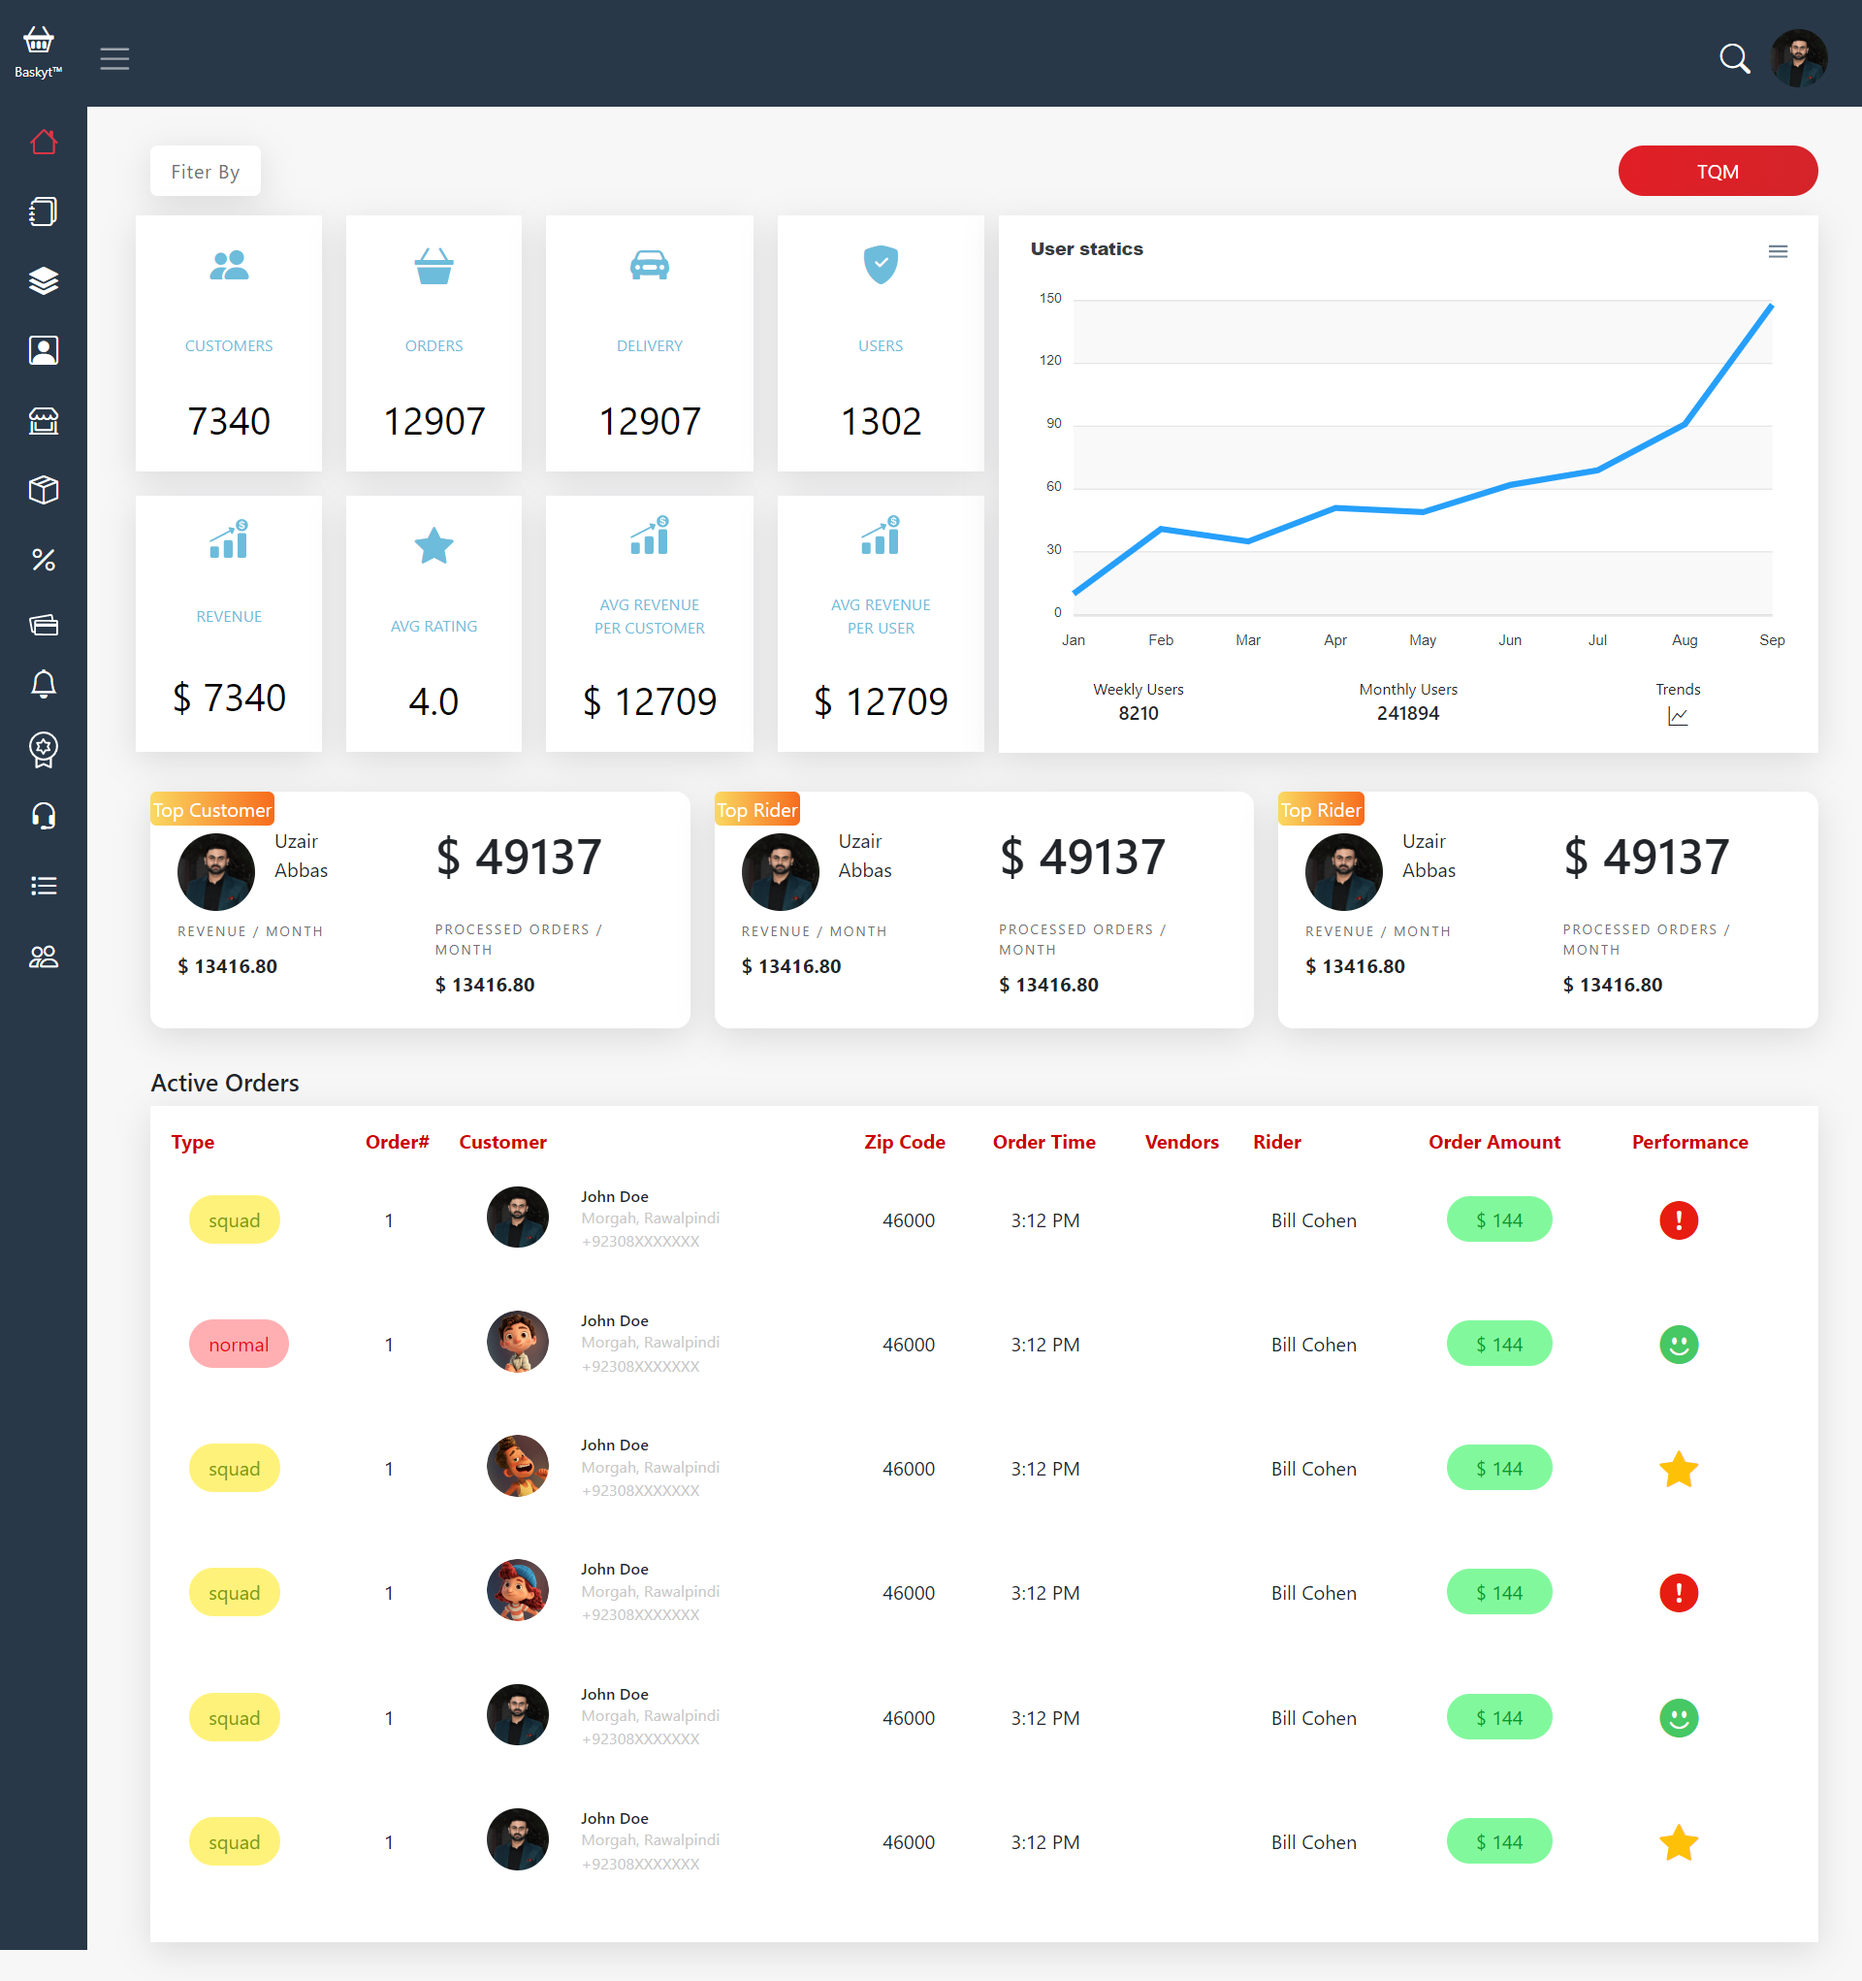
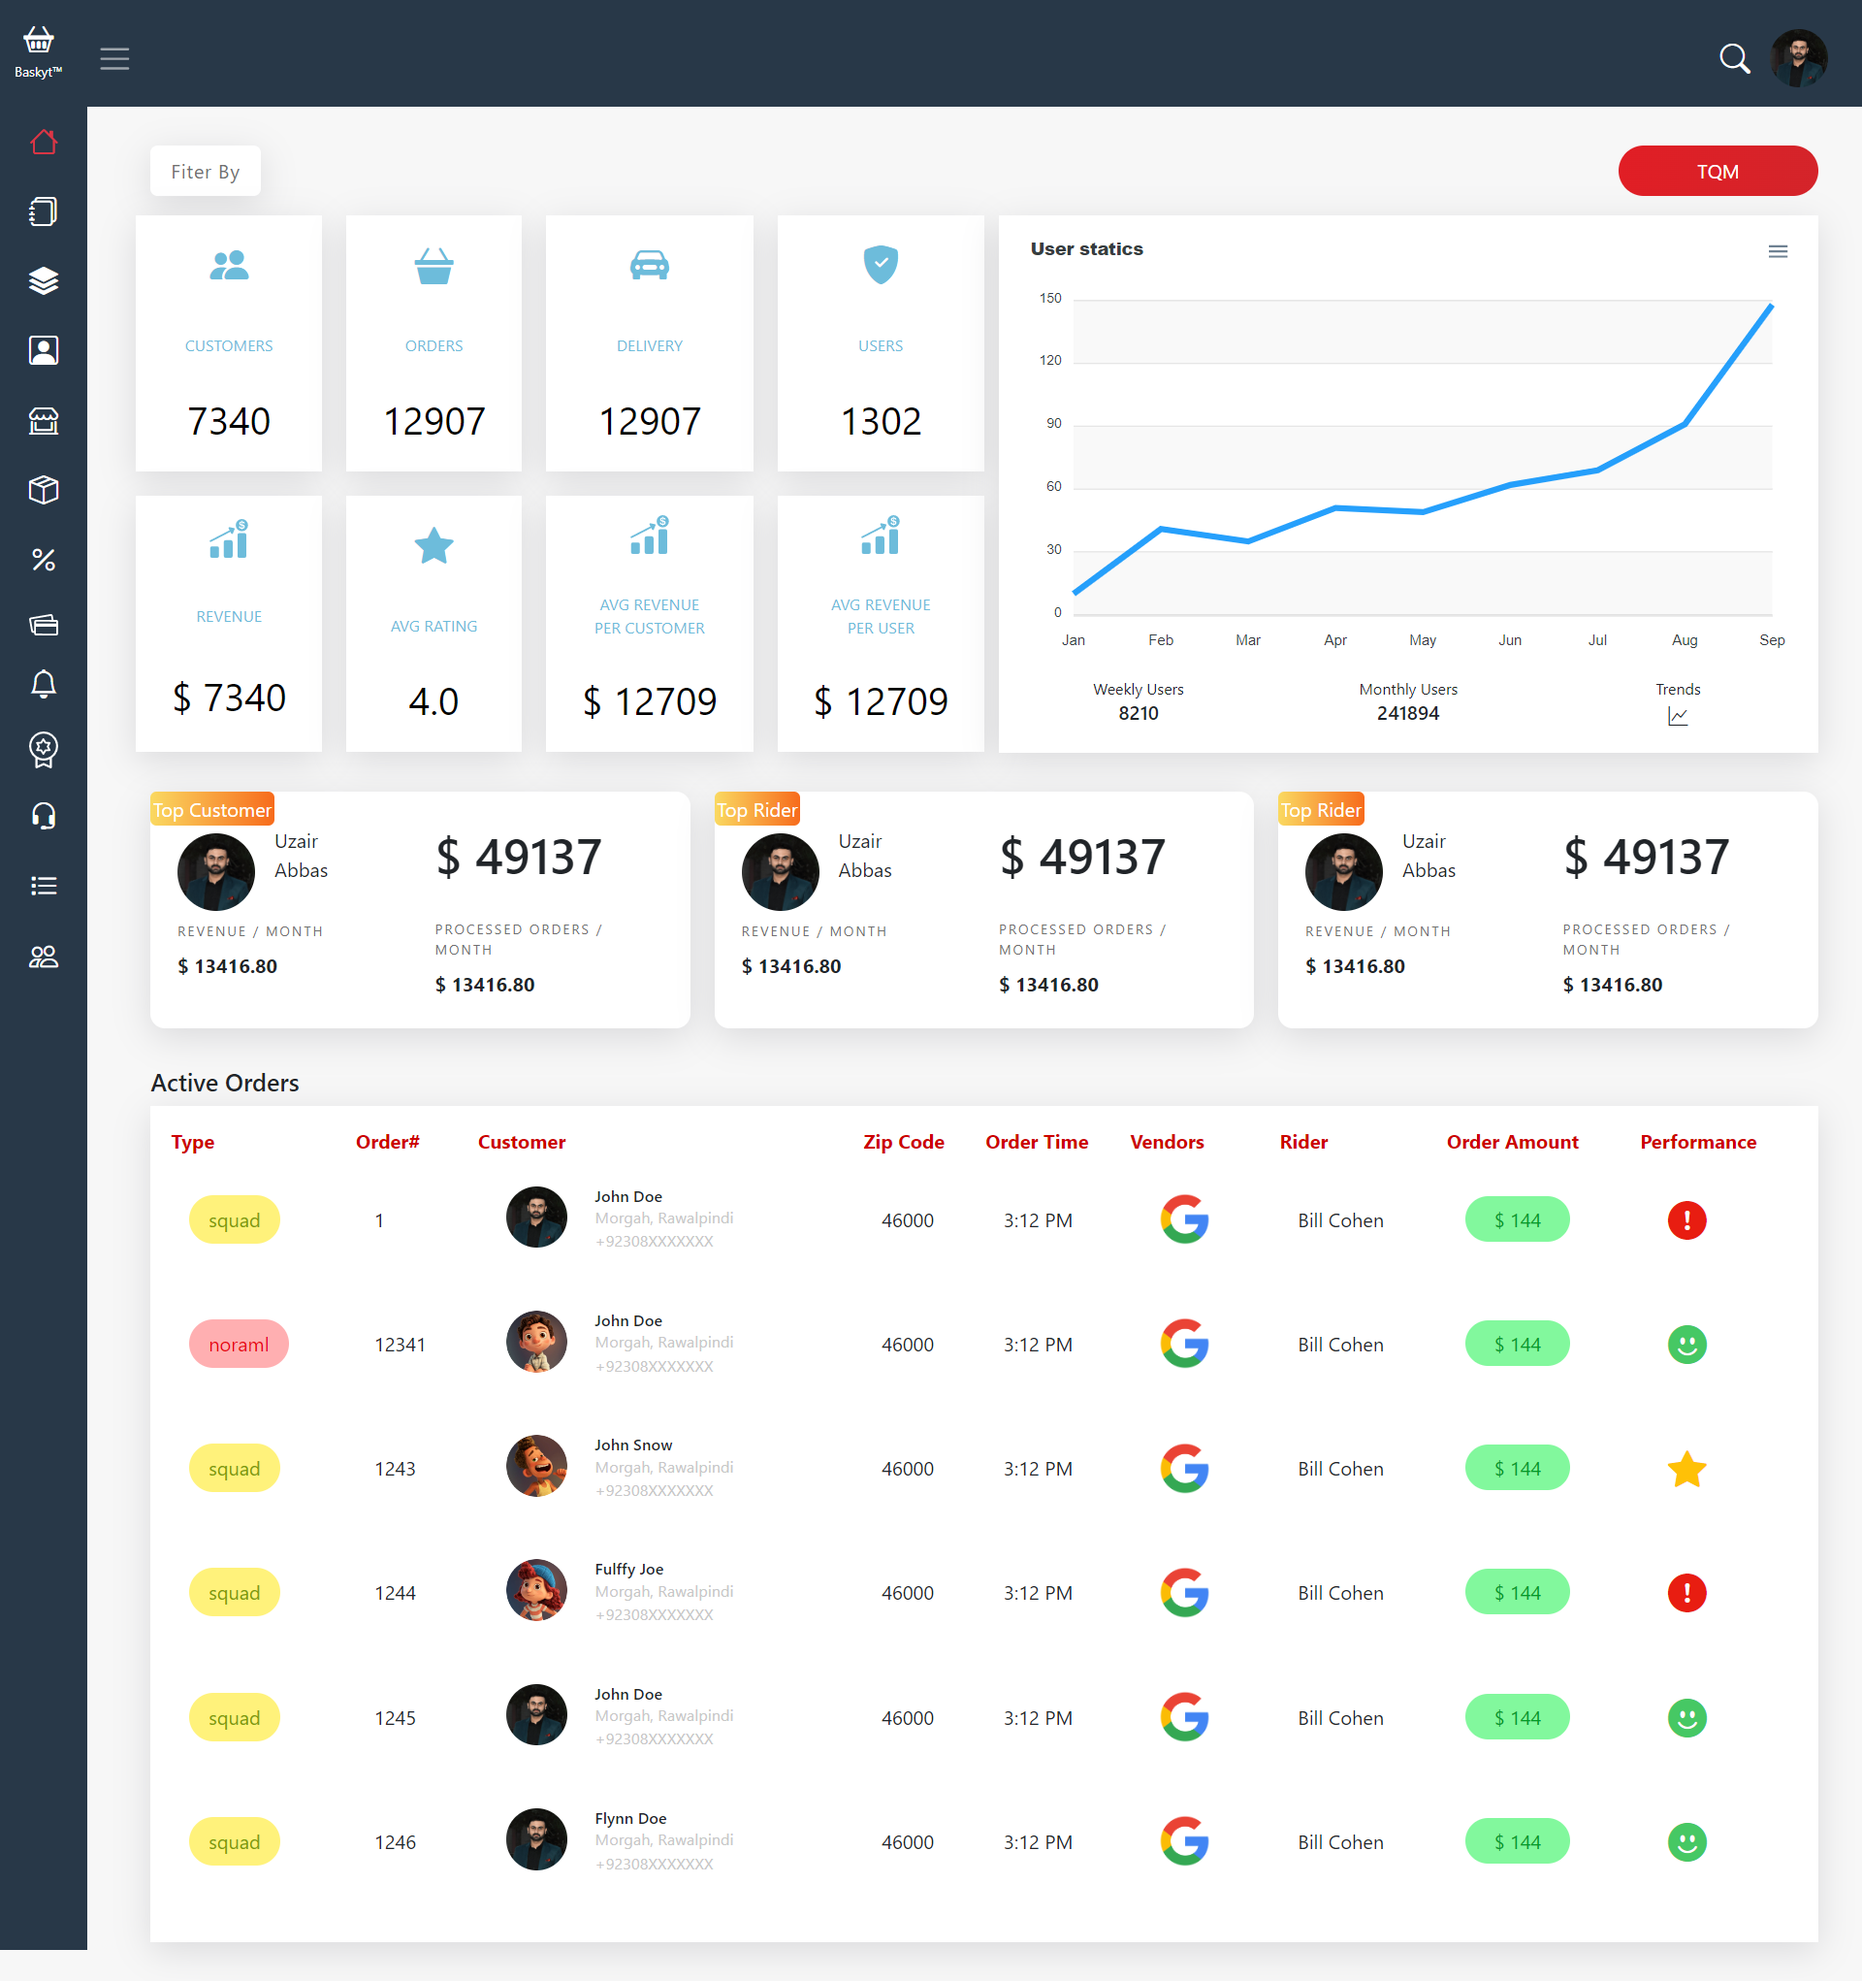
final commit end

diff --git a/src/components/Dashboard.jsx b/src/components/Dashboard.jsx
@@ -1,12 +1,23 @@
-import React from 'react'
+import React, {useState, useEffect} from 'react'
+import axios from "axios";
 import Summery from './Summery'
 import Chart from './Chart'
 import TopUsers from './TopUsers'
 import OrdersTable from './OrdersTable'
-import {orders} from '../data/orders.data.js'
-import { summery } from '../data/summery.data'
+import { orders } from '../data/orders.data.js'
+import { summerydata } from '../data/summery.data'
 
 const Dashboard = () => {
+    const [orderss, setOrders] = useState([]);
+    async function GetOrders(){
+        const response = await axios.post('http://localhost:5000/api/getorders');
+        const summery = await response.data;
+        setOrders(summery.orders ? summery.orders : null);
+        console.log('SUMMERY REQUEST: ' + summery.status);
+    }
+    useEffect(() => {
+        GetOrders()
+    },[])
     return (
         <div className='dash-container'>
             <div className='dash-wrapper'>
@@ -16,18 +27,18 @@ const Dashboard = () => {
                         <button className='btn filter-btn'>Fiter By</button>
 
                     </div>
-                    <div className='col-6'>
-                        <Summery summery={summery}/>
+                    <div className='col-md-6'>
+                        <Summery summery={summerydata} />
                     </div>
-                    <div className='col-6'>
+                    <div className='col-md-6 chart-container'>
                         <Chart />
                     </div>
                 </div>
                 <div className='dast-mid-wrapper'>
-                <TopUsers/>
+                    <TopUsers />
                 </div>
                 <div className='dast-bottom-wrapper'>
-                <OrdersTable orders={orders}s/>
+                    <OrdersTable orders={orderss} />
                 </div>
             </div>
         </div>

diff --git a/src/components/OrdersTable.jsx b/src/components/OrdersTable.jsx
@@ -1,7 +1,12 @@
-import React from 'react'
+import React, {useState, useEffect} from 'react'
 
 const OrdersTable = (props) => {
-    
+    const [orders, setOrders] = useState([]);
+    console.log("PROP ORDER: " + orders)
+    useEffect(() => {
+        setOrders(props.orders)
+    },[])
+
     return (
         <div className='orders-container'>
             <h5>Active Orders</h5>
@@ -39,7 +44,7 @@ const OrdersTable = (props) => {
                                 <td>
                                     <div className='row customer-cell'>
                                         <div className='col-3'>
-                                            <img src={val.img} alt="..."/>
+                                            <img src={process.env.REACT_APP_NODE_SERVER + val.img} alt="..."/>
                                         </div>
                                         <div className='col-9'>
                                             <h1>{val.customer}</h1>
@@ -51,7 +56,9 @@ const OrdersTable = (props) => {
                                 </td>
                                 <td>{val.zip_code}</td>
                                 <td>{val.order_time}</td>
-                                <td>{val.vendors}</td>
+                                <td>
+                                <img className='vendor-img' src={process.env.REACT_APP_NODE_SERVER + val.vendors} alt="..."/>
+                                </td>
                                 <td>{val.rider}</td>
                                 <td>
                                     <span className='amount-cell' style={{backgroundColor: '#82F89D',padding: '0.5rem 1.5rem'}}>

diff --git a/src/index.css b/src/index.css
@@ -49,6 +49,9 @@ code {
 /* SIDEBAR */
 .sidebar-main{
   background-color: #283848;
+  width: 4.5rem; 
+  height:95rem;
+  float: left;
 }
 .sidebar-icons i {
   font-size: 1.5rem;
@@ -253,6 +256,10 @@ code {
   color: #C8C8C8;
 }
 
+.vendor-img{
+  width: 60px;
+}
+
 .amount-cell {
   background-color: #82F89D;
   color: #019B25;
@@ -423,3 +430,31 @@ code {
   border-radius: 12px;
 }
 
+/* MOBILE VIEW  */
+
+
+@media (max-aspect-ratio: 3/2) {
+  /* SUMMARY */
+  .summary-wrapper {
+    grid-template-columns: auto auto;
+    gap: 5px;
+  }
+  .summary-child{
+    width: 95%;
+    height: 8rem;
+  }
+  /* TOP USERS */
+  .top-wrapper {
+    display: block;
+  }
+  .top-child{
+    margin: 0 0 1rem 0;
+
+  }
+  /* CHART */
+  .chart-container{
+    padding: 0;
+    margin: 1rem 0 0 0;
+    width: 97.5%;
+  }
+}

diff --git a/src/components/Sidebar.jsx b/src/components/Sidebar.jsx
@@ -5,7 +5,7 @@ import bonus from '../assets/bonus.svg'
 
 const Sidebar = () => {
     return (
-        <div class="d-flex flex-column flex-shrink-0 sidebar-main" style={{ width: '4.5rem', height: '95rem', float: 'left' }}>
+        <div class="d-flex flex-column flex-shrink-0 sidebar-main">
             <ul class="nav nav-pills sidebar-icons nav-flush flex-column mb-auto text-center">
                 <li class="nav-item">
                     <a href="/" class="nav-link text-danger rounded-0" aria-current="page" data-bs-toggle="tooltip" data-bs-placement="right" aria-label="Home" data-bs-original-title="Home">

diff --git a/src/components/Chart.jsx b/src/components/Chart.jsx
@@ -42,7 +42,7 @@ const Chart = () => {
     return (
         <div>
             <div className='chart-wrapper'>
-                <ReactApexCharts options={info.options} series={info.series} type="line" height={350} />
+                <ReactApexCharts options={info.options} series={info.series} type="line" className="chart-comp" height={350} />
                 <div className='row text-center'>
                 <div className='col-md-4'>
                     <p>Weekly Users</p>

diff --git a/src/App.js b/src/App.js
@@ -1,3 +1,4 @@
+import React, {useEffect, useState} from "react";
 import Dashboard from "./components/Dashboard";
 import Tqm from "./components/Tqm";
 import Header from "./components/Header";
@@ -5,6 +6,7 @@ import Sidebar from "./components/Sidebar";
 import { BrowserRouter, Routes, Route } from "react-router-dom";
 
 function App() {
+  
   return (
     <div>
     <Header/>

diff --git a/src/components/Summery.jsx b/src/components/Summery.jsx
@@ -1,4 +1,4 @@
-import React from 'react'
+import React, {useState} from 'react'
 import revenue from '../assets/revenue.svg'
 
 const Summery = (props) => {

diff --git a/src/data/summery.data.js b/src/data/summery.data.js
@@ -1,4 +1,4 @@
-export const summery = {
+export const summerydata = {
     customers: 7340,
     orders: 12907,
     delivery: 12907,
